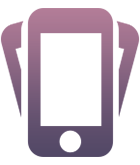
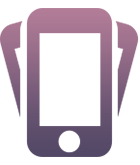
retina for background images

diff --git a/stylesheets/application.css b/stylesheets/application.css
@@ -4273,15 +4273,19 @@ header {
     overflow: hidden;
     text-indent: 1000%;
     white-space: nowrap;
-    height: 227px;
     width: 375px;
+    height: 227px;
     background: url("../images/logo-header.png") no-repeat;
     margin-top: 10%;
     margin-bottom: 20px; }
+    @media all and (-webkit-min-device-pixel-ratio: 1.5) {
+      header h1 {
+        background-image: url("../images/logo-header@2x.png");
+        background-size: 375px 227px; } }
     @media only screen and (max-width: 768px) {
       header h1 {
-        height: 113px;
         width: 188px;
+        height: 113px;
         background-size: 100% 100%;
         margin-top: 30%; } }
   header h2 {
@@ -4307,14 +4311,18 @@ header {
     overflow: hidden;
     text-indent: 1000%;
     white-space: nowrap;
-    height: 18px;
     width: 12px;
+    height: 18px;
     background: url("../images/kapow.png") no-repeat;
     display: inline-block;
     margin: 0 10px;
     position: relative;
     z-index: 1;
     top: 3px; }
+    @media all and (-webkit-min-device-pixel-ratio: 1.5) {
+      header .kapow {
+        background-image: url("../images/kapow@2x.png");
+        background-size: 12px 18px; } }
   header nav {
     font-size: 25px;
     line-height: 30px;
@@ -4370,8 +4378,8 @@ header {
     #passes .passes-list li:before, #passes .passes-list li:after {
       content: "";
       display: block;
-      height: 60px;
       width: 60px;
+      height: 60px;
       border-radius: 50%;
       background: #fafafa;
       position: absolute;
@@ -4456,19 +4464,23 @@ header {
     overflow: hidden;
     text-indent: 1000%;
     white-space: nowrap;
-    height: 90px;
     width: 152px;
+    height: 90px;
     background: url("../images/logo-innotech.png") no-repeat; }
   #sponsors .sponsors-list li .logo-brightbit {
+    margin-top: 10px;
     margin: 0 auto;
     display: block;
     overflow: hidden;
     text-indent: 1000%;
     white-space: nowrap;
-    height: 58px;
     width: 210px;
-    background: url("../images/logo-brightbit.png") no-repeat;
-    margin-top: 10px; }
+    height: 58px;
+    background: url("../images/logo-brightbit.png") no-repeat; }
+    @media all and (-webkit-min-device-pixel-ratio: 1.5) {
+      #sponsors .sponsors-list li .logo-brightbit {
+        background-image: url("../images/logo-brightbit@2x.png");
+        background-size: 210px 58px; } }
 #sponsors a {
   color: #aaaaaa;
   font-size: 20px;
@@ -4477,8 +4489,8 @@ header {
 #location .section-title {
   margin-bottom: 0; }
 #location #map {
-  height: 400px;
   width: 100%;
+  height: 400px;
   margin-top: 20px;
   background: #f4f0e9;
   border-top: 2px solid #4c5a53;
@@ -4497,23 +4509,35 @@ footer {
       background-repeat: no-repeat;
       position: relative; }
     footer .siteby:before {
-      height: 24px;
       width: 44px;
-      background-image: url("../images/arrow-left.png");
-      top: 6px; }
+      height: 24px;
+      top: 6px;
+      background-image: url("../images/arrow-left.png"); }
+      @media all and (-webkit-min-device-pixel-ratio: 1.5) {
+        footer .siteby:before {
+          background-image: url("../images/arrow-left@2x.png");
+          background-size: 44px 24px; } }
     footer .siteby:after {
-      height: 16px;
       width: 51px;
-      background-image: url("../images/arrow-right.png");
-      top: 2px; }
+      height: 16px;
+      top: 2px;
+      background-image: url("../images/arrow-right.png"); }
+      @media all and (-webkit-min-device-pixel-ratio: 1.5) {
+        footer .siteby:after {
+          background-image: url("../images/arrow-right@2x.png");
+          background-size: 51px 16px; } }
   footer .logo-brightbit {
     margin: 0 auto;
     display: block;
     overflow: hidden;
     text-indent: 1000%;
     white-space: nowrap;
-    height: 40px;
     width: 146px;
+    height: 40px;
     background: url("../images/logo-brightbit-footer.png") no-repeat;
     display: inline-block;
     vertical-align: middle; }
+    @media all and (-webkit-min-device-pixel-ratio: 1.5) {
+      footer .logo-brightbit {
+        background-image: url("../images/logo-brightbit-footer@2x.png");
+        background-size: 146px 40px; } }

diff --git a/stylesheets/application.sass b/stylesheets/application.sass
@@ -98,12 +98,15 @@ header
       background-size: 1100px 500px
 
   h1
-    @include text-replace("../images/logo-header.png", 227px, 375px)
+    @include text-replace("../images/logo-header.png", 375px, 227px)
     margin-top: 10%
     margin-bottom: 20px
+    @media all and (-webkit-min-device-pixel-ratio: 1.5)
+      background-image: url("../images/logo-header@2x.png")
+      background-size: 375px 227px
     @media only screen and (max-width: $break-small)
-      height: 113px
       width: 188px
+      height: 113px
       background-size: 100% 100%
       margin-top: 30%
 
@@ -125,12 +128,15 @@ header
       line-height: 20px
 
   .kapow
-    @include text-replace("../images/kapow.png", 18px, 12px)
+    @include text-replace("../images/kapow.png", 12px, 18px)
     display: inline-block
     margin: 0 10px
     position: relative
     z-index: 1
     top: 3px
+    @media all and (-webkit-min-device-pixel-ratio: 1.5)
+      background-image: url("../images/kapow@2x.png")
+      background-size: 12px 18px
 
   nav
     font-size: 25px
@@ -190,8 +196,8 @@ header
       &:before, &:after
         content: ""
         display: block
-        height: 60px
         width: 60px
+        height: 60px
         border-radius: 50%
         background: $background
         position: absolute
@@ -277,10 +283,14 @@ header
         margin-bottom: 40px
 
       .logo-innotech
-        @include text-replace("../images/logo-innotech.png", 90px, 152px)
+        @include text-replace("../images/logo-innotech.png", 152px, 90px)
+        // No retina logo for Innotech because it's not out there. Oh well.
       .logo-brightbit
-        @include text-replace("../images/logo-brightbit.png", 58px, 210px)
         margin-top: 10px
+        @include text-replace("../images/logo-brightbit.png", 210px, 58px)
+        @media all and (-webkit-min-device-pixel-ratio: 1.5)
+          background-image: url("../images/logo-brightbit@2x.png")
+          background-size: 210px 58px
 
   a
     color: #aaa
@@ -293,8 +303,8 @@ header
     margin-bottom: 0
 
   #map
-    height: 400px
     width: 100%
+    height: 400px
     margin-top: 20px
     background: $creme
     border-top: 2px solid $green-dark
@@ -315,17 +325,26 @@ footer
       background-repeat: no-repeat
       position: relative
     &:before
-      height: 24px
       width: 44px
-      background-image: url("../images/arrow-left.png")
+      height: 24px
       top: 6px
+      background-image: url("../images/arrow-left.png")
+      @media all and (-webkit-min-device-pixel-ratio: 1.5)
+        background-image: url("../images/arrow-left@2x.png")
+        background-size: 44px 24px
     &:after
-      height: 16px
       width: 51px
-      background-image: url("../images/arrow-right.png")
+      height: 16px
       top: 2px
+      background-image: url("../images/arrow-right.png")
+      @media all and (-webkit-min-device-pixel-ratio: 1.5)
+        background-image: url("../images/arrow-right@2x.png")
+        background-size: 51px 16px
   
   .logo-brightbit
-    @include text-replace("../images/logo-brightbit-footer.png", 40px, 146px)
+    @include text-replace("../images/logo-brightbit-footer.png", 146px, 40px)
     display: inline-block
     vertical-align: middle
+    @media all and (-webkit-min-device-pixel-ratio: 1.5)
+      background-image: url("../images/logo-brightbit-footer@2x.png")
+      background-size: 146px 40px

diff --git a/stylesheets/mixins.sass b/stylesheets/mixins.sass
@@ -1,9 +1,9 @@
-@mixin text-replace($image, $height, $width)
+@mixin text-replace($image, $width, $height)
   margin: 0 auto
   display: block
   overflow: hidden
   text-indent: 1000%
   white-space: nowrap
-  height: $height
   width: $width
+  height: $height
   background: url($image) no-repeat
